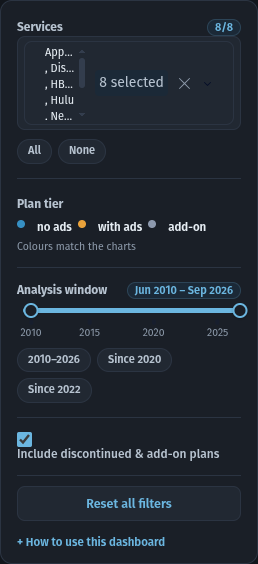
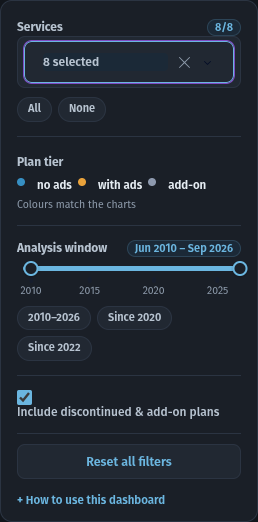
Stop crushing the services picker; style the popup properly
The picker looked broken because Dash lays its trigger out as a CSS grid
with hard-coded pixel columns: the selected-value area got 44px while the
'8 selected' count got 73px and the two icons took 31px. Eight brand pills
were therefore squeezed into a 44px scrolling column showing 'App...',
', Dis...' and so on.

An 8-item multi-select cannot usefully list every selection in a 210px
rail, so the trigger now shows one summary line ('8 selected', or the
placeholder when empty) with the clear and caret icons. The full list is
one click away and searchable, and the field stays a single 42px row
instead of a nested scroll box.

Also fixed the popup itself: it renders in a portal at the end of <body>,
so the earlier .dash-dropdown [role=listbox] rules never matched. Styled via
.dash-dropdown-content instead - surface, 1px border, 10px radius, shadow,
and 28px option rows rather than the default 16px.

diff --git a/app/assets/style.css b/app/assets/style.css
@@ -147,27 +147,39 @@ body {
 }
 .rail .dash-dropdown:hover { border-color: var(--accent) !important; }
 /* the vertical scrollbar inside the multi-select pill area */
-.rail .dash-dropdown-value::-webkit-scrollbar { width: 8px; }
-.rail .dash-dropdown-value::-webkit-scrollbar-track { background: transparent; }
-.rail .dash-dropdown-value::-webkit-scrollbar-thumb {
-  background: var(--border-strong); border-radius: 4px;
-}
-.rail .dash-dropdown-value::-webkit-scrollbar-thumb:hover { background: var(--text-muted); }
-.rail .dash-dropdown-value { scrollbar-width: thin; scrollbar-color: var(--border-strong) transparent; }
-
-/* Dash 4 multi-select must wrap inside the rail instead of overflowing it */
+/* ---------------------------------------------------------------
+   Services picker
+   Dash renders the trigger as a CSS grid with hard-coded pixel
+   columns (value 44px, count 73px, clear 16px, arrow 15px), so the
+   selected-value pills were squeezed into a 44px scrolling column.
+   There are only 8 services, so show a single summary line instead of
+   listing every pill; the full searchable list is one click away.
+   --------------------------------------------------------------- */
 .rail .dash-dropdown,
-.rail .dash-dropdown-wrapper,
-.rail .dash-dropdown-grid-container { max-width: 100%; min-width: 0; }
-.rail .dash-dropdown-value {
-  display: flex; flex-wrap: wrap; gap: 3px;
-  max-height: 74px; overflow-y: auto; min-width: 0;
-  background: transparent !important; border: none !important;
+.rail .dash-dropdown-wrapper { max-width: 100%; min-width: 0; }
+
+.rail .dash-dropdown-grid-container {
+  display: flex !important;
+  align-items: center;
+  gap: 8px;
+  grid-template-columns: none !important;
+  width: 100%;
 }
-.rail .dash-dropdown-value-item {
-  font-size: 11px; padding: 0 2px; max-width: 100%;
-  overflow: hidden; text-overflow: ellipsis; white-space: nowrap;
+/* pills duplicate the "N selected" count, and never fit in 210px */
+.rail .dash-dropdown-value { display: none !important; }
+.rail .dash-dropdown-value-count {
+  flex: 1 1 auto;
+  background: transparent !important;
+  color: var(--text) !important;
+  font-size: 12px;
+  font-weight: 600;
+  padding: 0;
+  white-space: nowrap;
+  overflow: hidden;
+  text-overflow: ellipsis;
 }
+.rail .dash-dropdown-clear { flex: 0 0 auto; color: var(--text-muted) !important; }
+.rail .dash-dropdown-grid-container > svg { flex: 0 0 auto; }
 
 /* quick-action chips */
 .quick { display: flex; flex-wrap: wrap; gap: 6px; margin-top: 9px; }
@@ -319,29 +331,46 @@ body.dark .dash-dropdown-option[aria-selected="true"] {
   background: var(--accent-soft) !important;
 }
 
-/* Dash 4 dropdown popup (position:fixed portal).
-   Careful: every Checklist is ALSO role="listbox", so popup rules must be
-   scoped by the dash-dropdown ancestor, never by [role=listbox] alone. */
-body.dark .dash-dropdown [role="listbox"] {
-  background: var(--surface-2) !important;
-  color: var(--text) !important;
-  border: 1px solid var(--border) !important;
-  border-radius: 8px;
-  box-shadow: 0 6px 20px rgba(0,0,0,0.55);
+/* Dash 4 dropdown popup. It renders in a portal at the end of <body>, so it is
+   NOT a descendant of .dash-dropdown and cannot be reached that way. It is
+   told apart from a Checklist (also role=listbox) by the .dash-dropdown-content
+   wrapper that only the popup has. */
+body.dark .dash-dropdown-content,
+.dash-dropdown-content {
+  background: var(--surface) !important;
+  border: 1px solid var(--border-strong) !important;
+  border-radius: 10px !important;
+  box-shadow: 0 10px 28px rgba(0, 0, 0, 0.45) !important;
+  padding: 6px !important;
+  overflow: hidden;
 }
-body.dark .dash-dropdown [role="listbox"] .dash-options-list-option,
-body.dark .dash-dropdown [role="listbox"] .dash-options-list-option-text,
-body.dark .dash-dropdown-search-container,
-body.dark .dash-dropdown-search {
-  background: var(--surface-2) !important;
-  color: var(--text) !important;
+.dash-dropdown-content [role="listbox"] {
+  background: transparent !important;
+  border: none !important;
+  padding: 0 !important;
 }
-body.dark .dash-dropdown [role="listbox"] .dash-options-list-option:hover,
-body.dark .dash-dropdown [role="listbox"] .dash-options-list-option[aria-selected="true"] {
+.dash-dropdown-content .dash-options-list-option,
+.dash-dropdown-content .dash-options-list-option-text {
+  background: transparent !important;
+  color: var(--text) !important;
+  border-width: 0 !important;
+  border-radius: 6px !important;
+  font-size: 12.5px !important;
+}
+.dash-dropdown-content .dash-options-list-option {
+  padding: 6px 9px !important;
+}
+.dash-dropdown-content .dash-options-list-option:hover,
+.dash-dropdown-content .dash-options-list-option[aria-selected="true"] {
   background: var(--accent-soft) !important;
 }
-/* dropdown popup body sits in a portal, outside .rail */
-.dash-dropdown [role="listbox"] .dash-options-list-option { border-width: 0 !important; }
+.dash-dropdown-search-container,
+.dash-dropdown-search {
+  background: var(--surface-2) !important;
+  color: var(--text) !important;
+  border-color: var(--border) !important;
+  border-radius: 6px !important;
+}
 
 /* Dash 4 range slider (dash-slider-* classes). The old rc-slider rules never
    applied, which is why the year marks stayed near-black on the dark panel. */
